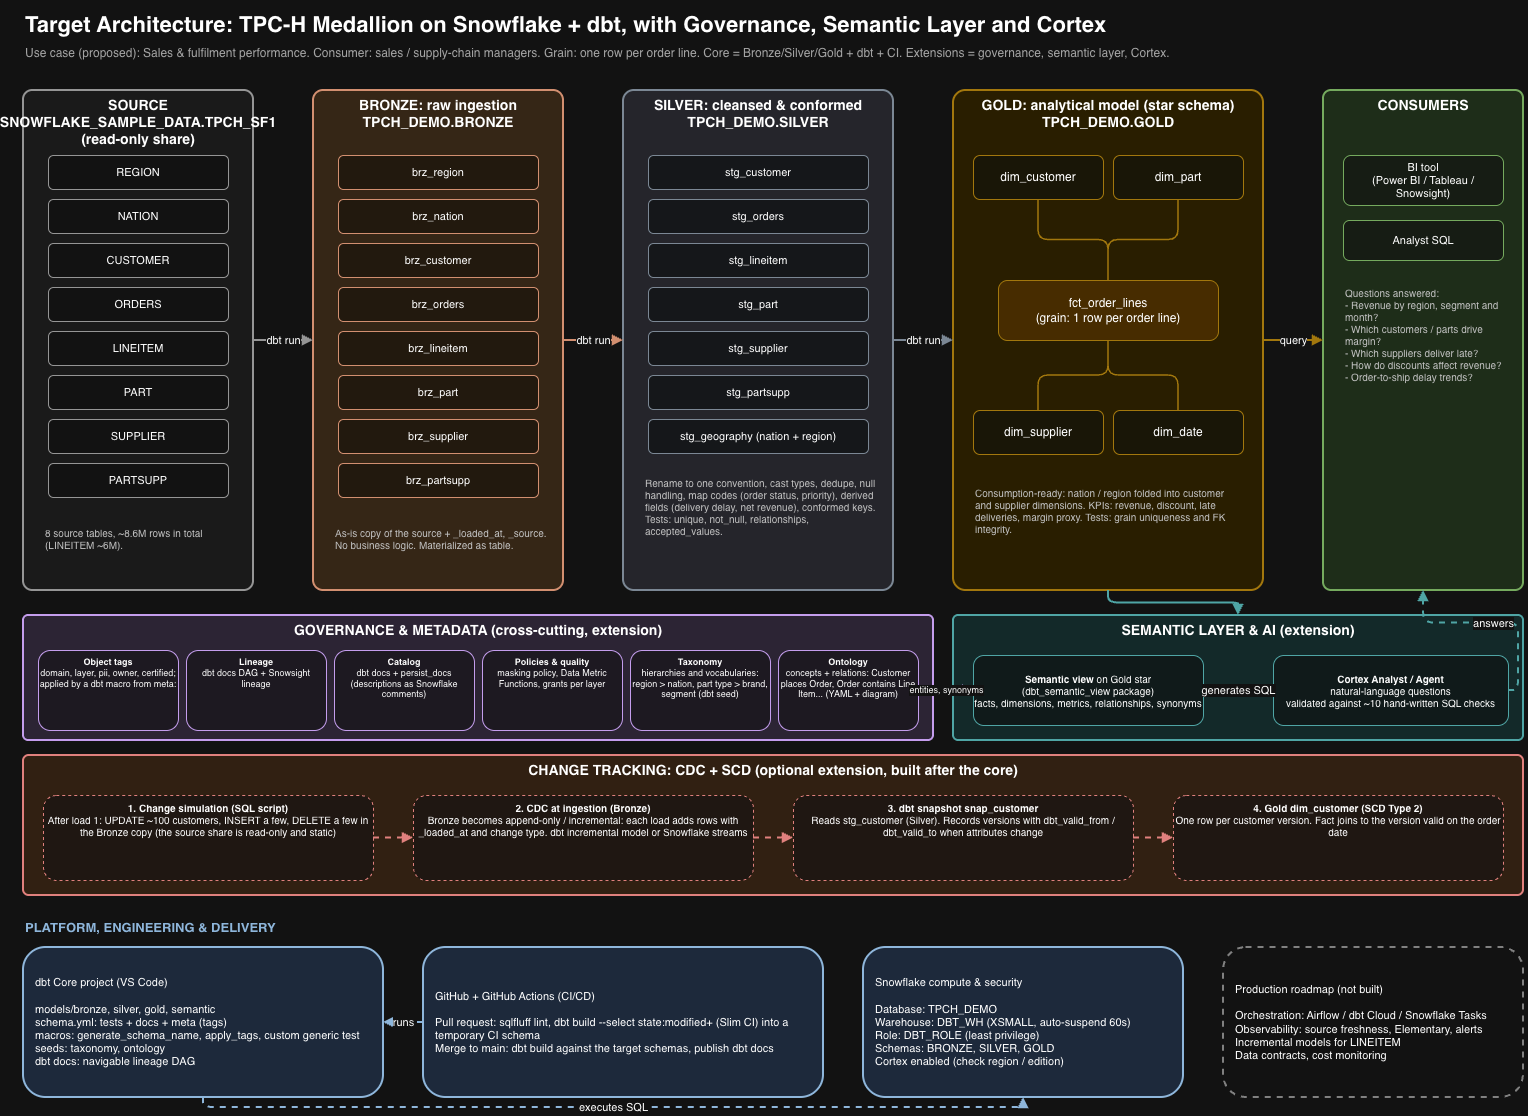
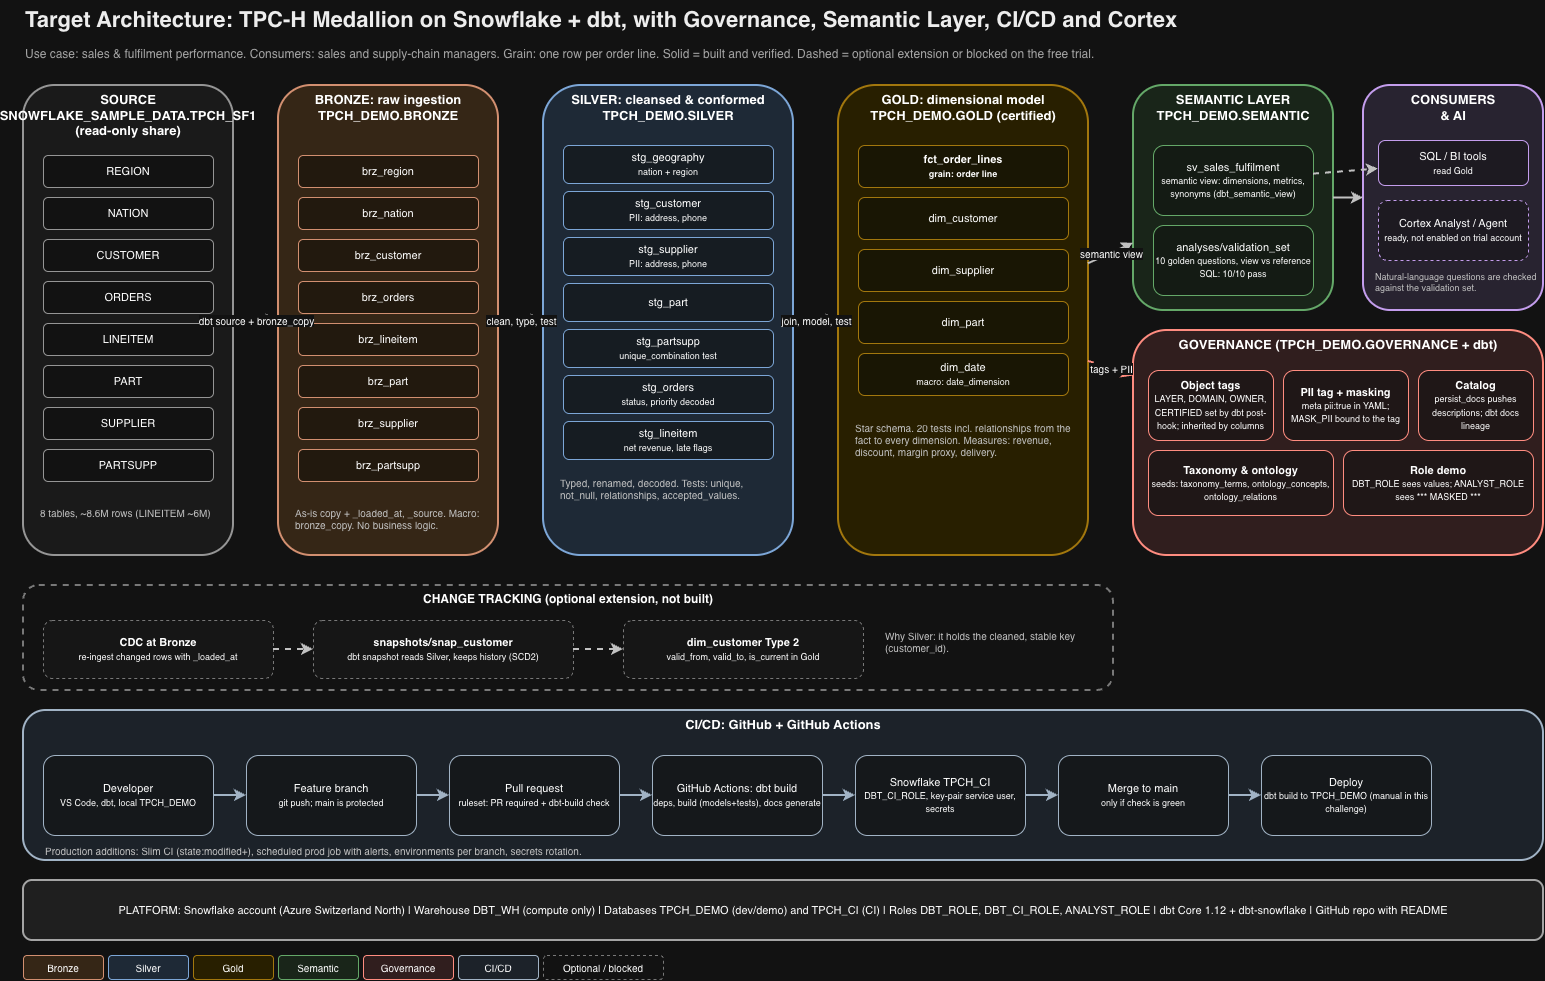
Add data quality: store_failures, lineitem quarantine, reconciliation test

diff --git a/.claude/skills/medallion-add-source/SKILL.md b/.claude/skills/medallion-add-source/SKILL.md
@@ -1,0 +1,74 @@
+---
+name: medallion-add-source
+description: Add a new source table to the TPC-H medallion dbt project and carry it through Bronze (raw copy) and Silver (cleaned staging) with YAML docs, tests and PII tags. Use when the user wants to ingest a new table, add a brz_/stg_ model, or onboard a new source into the pipeline.
+---
+
+# Add a source through Bronze and Silver
+
+Each layer has one job. Keep business logic out of Bronze and keep joins for Gold
+(the one exception is a small conforming join such as `stg_geography`).
+
+## 1. Register the source
+
+Add the table to `models/bronze/sources.yml` under the right source (`tpch` for
+`SNOWFLAKE_SAMPLE_DATA.TPCH_SF1`). For a new database/schema, add a new source block
+with `description`, `database`, `schema`.
+
+## 2. Bronze model: `models/bronze/brz_<table>.sql`
+
+Exactly one line. Never hand-write Bronze SQL:
+
+```sql
+{{ bronze_copy('<source_name>', '<table>') }}
+```
+
+`bronze_copy` adds `_loaded_at` and `_source`. Schema, materialisation, tags and
+`meta` come from `dbt_project.yml` folder config, so do not add a `config()` block.
+
+## 3. Silver model: `models/silver/stg_<entity>.sql`
+
+Follow the existing style (see `stg_lineitem.sql`, `stg_orders.sql`):
+
+- Rename source prefixes to readable snake_case: `l_orderkey` → `order_id`,
+  `*_key` → `*_id`.
+- Cast explicitly: money `::number(12,2)`, rates `::number(5,4)`, dates `::date`.
+- `trim()` fixed-width text columns (TPC-H `char` columns are padded).
+- Decode code columns with a `case ... else 'Unknown' end` into readable labels.
+- Derived line metrics go in an outer `select` over a `base` CTE.
+- Read only from `ref('brz_...')`, never from `source()`.
+- Lower-case SQL keywords, aligned `as` aliases.
+
+## 4. Document and test in `models/silver/_silver.yml`
+
+For every new model add:
+
+- `description` that states the grain ("One row per ...").
+- Primary key: `data_tests: [unique, not_null]`.
+- Composite key (no single unique column): model-level test
+
+  ```yaml
+  data_tests:
+    - unique_combination:
+        arguments:
+          combination_of_columns: [part_id, supplier_id]
+  ```
+- Foreign keys: `relationships` with `arguments: {to: ref('...'), field: ...}`.
+- Decoded labels: `accepted_values` listing every label including `'Unknown'`.
+- Personal data (names of people, addresses, phones, emails):
+  `meta: {pii: true}`. The `apply_tags` post-hook turns this into a Snowflake
+  `GOVERNANCE.PII` tag; it warns and skips if the column name does not exist, so
+  the YAML column name must match the SQL alias exactly.
+
+Use the dbt ≥1.10 syntax: `data_tests:` and test params under `arguments:`.
+
+## 5. Build and verify
+
+From the project root (dbt lives in the parent folder's venv):
+
+```bash
+source ../.venv/bin/activate
+dbt build --select +stg_<entity>
+```
+
+Check the output for passing tests and no `WARNING: PII column ... skipped` lines.
+Report row counts if the user wants a sanity check (`dbt show --select stg_<entity>`).

diff --git a/.claude/skills/snowflake-dbt-ci-setup/SKILL.md b/.claude/skills/snowflake-dbt-ci-setup/SKILL.md
@@ -1,0 +1,63 @@
+---
+name: snowflake-dbt-ci-setup
+description: Set up or troubleshoot the GitHub Actions dbt CI for this Snowflake project — key-pair service user, isolated CI role and database, GitHub secrets and the protected main branch. Use when CI fails to authenticate, when recreating the CI user or rotating its key, or when replicating this CI setup in another Snowflake/dbt repo.
+---
+
+# Snowflake + dbt CI
+
+Pieces involved:
+
+- `setup/01_ci.sql` — `DBT_CI_ROLE`, `TPCH_CI` database (owned by the CI role),
+  a `TYPE = SERVICE` user with an RSA public key. CI never touches `TPCH_DEMO`.
+- `ci/profiles.yml` — target `ci`, reads `SNOWFLAKE_ACCOUNT`, `SNOWFLAKE_USER`,
+  `SNOWFLAKE_PRIVATE_KEY_PATH` from env.
+- `.github/workflows/dbt_ci.yml` — writes the key from a secret, runs
+  `dbt deps`, `dbt build`, `dbt docs generate`, uploads docs as an artifact.
+
+## Generate a key pair
+
+Run in a scratch directory, never in the repo:
+
+```bash
+openssl genrsa 2048 | openssl pkcs8 -topk8 -inform PEM -out snowflake_key.p8 -nocrypt
+openssl rsa -in snowflake_key.p8 -pubout -out snowflake_key.pub
+```
+
+Paste the body of `snowflake_key.pub` (without the BEGIN/END lines, one line) into
+`RSA_PUBLIC_KEY` in `setup/01_ci.sql` — or for rotation:
+`ALTER USER <CI_USER> SET RSA_PUBLIC_KEY_2 = '...'`, switch the secret, then
+`UNSET RSA_PUBLIC_KEY`.
+
+Never commit the `.p8` file or paste real keys into tracked files. Leave the
+placeholders in `setup/01_ci.sql` as they are in git.
+
+## GitHub secrets
+
+Ask the user before running any `gh secret set` command (it writes to their repo):
+
+```bash
+gh secret set SNOWFLAKE_ACCOUNT        # e.g. orgname-accountname
+gh secret set SNOWFLAKE_USER           # the service user name
+gh secret set SNOWFLAKE_PRIVATE_KEY < snowflake_key.p8
+```
+
+Branch protection: a ruleset on `main` requiring a PR and the `dbt-build` status
+check (the job id in the workflow).
+
+## Troubleshooting
+
+| Symptom | Likely cause |
+|---|---|
+| `JWT token is invalid` | Public key not set on the user, wrong account identifier, or key file lost its newlines (the workflow uses `printf '%s\n'` to keep them) |
+| `Role 'DBT_CI_ROLE' is not granted` | Missing `GRANT ROLE DBT_CI_ROLE TO USER` |
+| `Database 'SNOWFLAKE_SAMPLE_DATA' does not exist` | Missing `IMPORTED PRIVILEGES` grant for the CI role |
+| Tag / schema errors in `on-run-start` | CI role must own `TPCH_CI` so `create_governance_tags` can create `GOVERNANCE` and its tags |
+| Semantic view fails to create | `dbt deps` step missing or package version drift; check `package-lock.yml` |
+
+Use `gh run list --workflow dbt_ci.yml` and `gh run view <id> --log-failed` to read
+failures.
+
+## Keep versions in sync
+
+dbt versions are pinned in both `README.md` and the workflow
+(`dbt-core==1.12.6 dbt-snowflake==1.12.5`). Change both together.

diff --git a/.claude/skills/semantic-view-extend/SKILL.md b/.claude/skills/semantic-view-extend/SKILL.md
@@ -1,0 +1,55 @@
+---
+name: semantic-view-extend
+description: Add dimensions, metrics, synonyms, tables or relationships to the Snowflake semantic view sv_sales_fulfilment (dbt_semantic_view package), and add a matching golden question to the validation set. Use when the user wants a new metric/KPI, a new business term or synonym, or to expose a Gold column to Cortex Analyst / natural-language queries.
+---
+
+# Extend the semantic view
+
+File: `models/semantic/sv_sales_fulfilment.sql`, materialised by the
+`Snowflake-Labs/dbt_semantic_view` package (`config(materialized='semantic_view')`).
+`persist_docs` is off for this folder on purpose — do not turn it on.
+
+## Clause order and syntax
+
+`tables (...)` → `relationships (...)` → `dimensions (...)` → `metrics (...)`.
+
+- **tables**: `alias as {{ ref('...') }} primary key (col) with synonyms = (...) comment = '...'`
+- **relationships**: `name as fact (fk) references dim (pk)`
+- **dimensions**: `table.business_name as table.physical_column`
+  — rename physical columns to business names where it disambiguates
+  (`customers.customer_region as customers.region_name`).
+- **metrics**: `fact.metric_name as <aggregate>(fact.column)`.
+  Ratios are aggregates over row-level flags: `avg(iff(flag, 1, 0))`.
+- Commas between entries, none after the last one in a clause.
+
+## Conventions
+
+- Add `with synonyms = (...)` using words the consumer actually says
+  ("revenue", "sales", "net sales"). Do not reuse a synonym already used elsewhere
+  in the view — ambiguity confuses Cortex Analyst.
+- Add a `comment` on any metric whose definition is not obvious, including caveats.
+- The column must exist in Gold first. If it does not, use `gold-star-model`.
+- If you add a table or relationship, update the counts in
+  `docs/cortex_readiness.md` ("5 tables, 4 relationships, 17 dimensions, 8 metrics").
+
+## Add a golden question (required)
+
+Every new metric or dimension gets a question in `analyses/validation_set.sql`:
+
+1. Add any needed columns to `ref_base`.
+2. Add `qN_sv` (via `SEMANTIC_VIEW(TPCH_DEMO.SEMANTIC.SV_SALES_FULFILMENT DIMENSIONS ... METRICS ...)`)
+   and `qN_ref` (hand-written SQL on `ref_base`). Same column names and the same
+   `ROUND` precision in both (2 for money, 6 for rates).
+3. Add a `UNION ALL SELECT N, '<question>', ...` row with the two-way `MINUS` diff.
+4. For top-N questions, make sure ties cannot reorder rows between routes
+   (pick a metric with distinct values or add a tie-breaker in both).
+
+## Deploy and verify
+
+```bash
+source ../.venv/bin/activate
+dbt build --select sv_sales_fulfilment
+```
+
+Then run the `semantic-view-validate` skill. All rows must show
+`rows_with_difference = 0` and `rows_in_semantic_view > 0`.

diff --git a/.claude/skills/gold-star-model/SKILL.md b/.claude/skills/gold-star-model/SKILL.md
@@ -1,0 +1,48 @@
+---
+name: gold-star-model
+description: Add or change a Gold-layer dimension or fact in the TPC-H medallion star schema (dim_*, fct_*), with grain, conformed keys, measures and relationship tests. Use when the user wants a new dimension, a new measure on fct_order_lines, a new fact table, or to answer a new business question from Gold.
+---
+
+# Gold star schema models
+
+Gold is a star schema for a named consumer (sales and supply-chain managers).
+Fact grain today: one row per order line (`fct_order_lines`).
+
+## Rules
+
+- Read only from Silver (`ref('stg_...')`). Never from Bronze or `source()`.
+- **Dimensions** (`dim_<entity>.sql`): one row per entity, keyed by `<entity>_id`.
+  Denormalise small hierarchies in (nation and region are folded into
+  `dim_customer` / `dim_supplier` via `stg_geography`); do not create snowflaked
+  dimensions. Use `left join` to lookups so no entity is dropped.
+- **Calendar**: `dim_date` comes from the `date_dimension(start, end)` macro.
+  Extend the range there rather than writing a new spine.
+- **Facts** (`fct_<process>.sql`): group columns as `-- keys`, `-- dates`,
+  `-- descriptive attributes`, `-- measures`, plus any domain block such as
+  `-- delivery performance`. Only additive or row-level measures; ratios belong
+  in the semantic view as metrics (e.g. `late_delivery_rate = avg(iff(...))`).
+- Round money to 2 decimals at the point it is derived.
+- Use `inner join` only where the relationship is mandatory (line → order);
+  `left join` otherwise (line → partsupp cost).
+- State the grain before writing SQL. If a change would alter the grain, stop and
+  confirm with the user — it breaks every metric in `sv_sales_fulfilment`.
+
+## YAML (`models/gold/_gold.yml`)
+
+- `description` with the grain.
+- PK: `[unique, not_null]`; composite PK: `unique_combination` (see
+  `tests/generic/unique_combination.sql`).
+- Every FK on a fact: `not_null` + `relationships` to its dimension.
+- Describe every measure (what it means, and caveats such as "margin is a proxy,
+  not accounting margin").
+
+Gold inherits `certified: 'true'` meta from `dbt_project.yml`; `apply_tags` writes
+it as a Snowflake tag after build.
+
+## After the change
+
+1. `source ../.venv/bin/activate && dbt build --select <model>+` (the `+` rebuilds
+   the semantic view and its dependants).
+2. If a new column should be queryable by business users, follow the
+   `semantic-view-extend` skill.
+3. Update the README tables if a model was added.

diff --git a/.claude/skills/semantic-view-validate/SKILL.md b/.claude/skills/semantic-view-validate/SKILL.md
@@ -1,0 +1,48 @@
+---
+name: semantic-view-validate
+description: Run the golden-question validation set that compares SEMANTIC_VIEW() answers against hand-written SQL on the Gold tables, and diagnose any mismatch. Use after changing Gold models or the semantic view, before a PR, or when the user asks whether the semantic layer / Cortex readiness still holds.
+---
+
+# Validate the semantic view
+
+`analyses/validation_set.sql` answers each business question two ways and returns
+one row per question with `rows_in_semantic_view` and `rows_with_difference`.
+
+## Run it
+
+The file is plain SQL with fully qualified names (`TPCH_DEMO.GOLD...`,
+`TPCH_DEMO.SEMANTIC...`), so it only validates the **demo** database. Make sure the
+demo target has been built first (`dbt build`).
+
+```bash
+source ../.venv/bin/activate
+dbt show --inline "$(cat analyses/validation_set.sql)" --limit 50
+```
+
+If `dbt show` rejects the trailing `ORDER BY`, wrap it:
+`select * from ( ... ) order by 1`.
+
+## Pass criteria
+
+Every question must have `rows_in_semantic_view > 0` **and**
+`rows_with_difference = 0`. Report the result as a short table (question, rows,
+diff, PASS/FAIL).
+
+## Diagnosing a failure
+
+Narrow it down layer by layer — that is the point of the Medallion design:
+
+1. Run that question's `qN_sv` and `qN_ref` CTEs on their own and diff them.
+2. `rows_in_semantic_view = 0`: the dimension filter value is wrong (labels are
+   decoded in Silver, e.g. `'Urgent'` not `'1-URGENT'`), or a relationship in the
+   view drops rows.
+3. Small numeric differences: mismatched `ROUND` precision between the two routes.
+4. Different rows in a top-N: ties in the ranking metric.
+5. Large differences: the metric definition in `sv_sales_fulfilment.sql` does not
+   match the reference SQL, or a join type differs (the view joins via declared
+   relationships; `ref_base` uses inner joins to all dimensions).
+6. If both routes agree with each other but look wrong, check Gold against Silver,
+   then Silver against Bronze.
+
+Do not "fix" a failure by editing the reference SQL to match the view unless the
+user confirms the reference was wrong.
